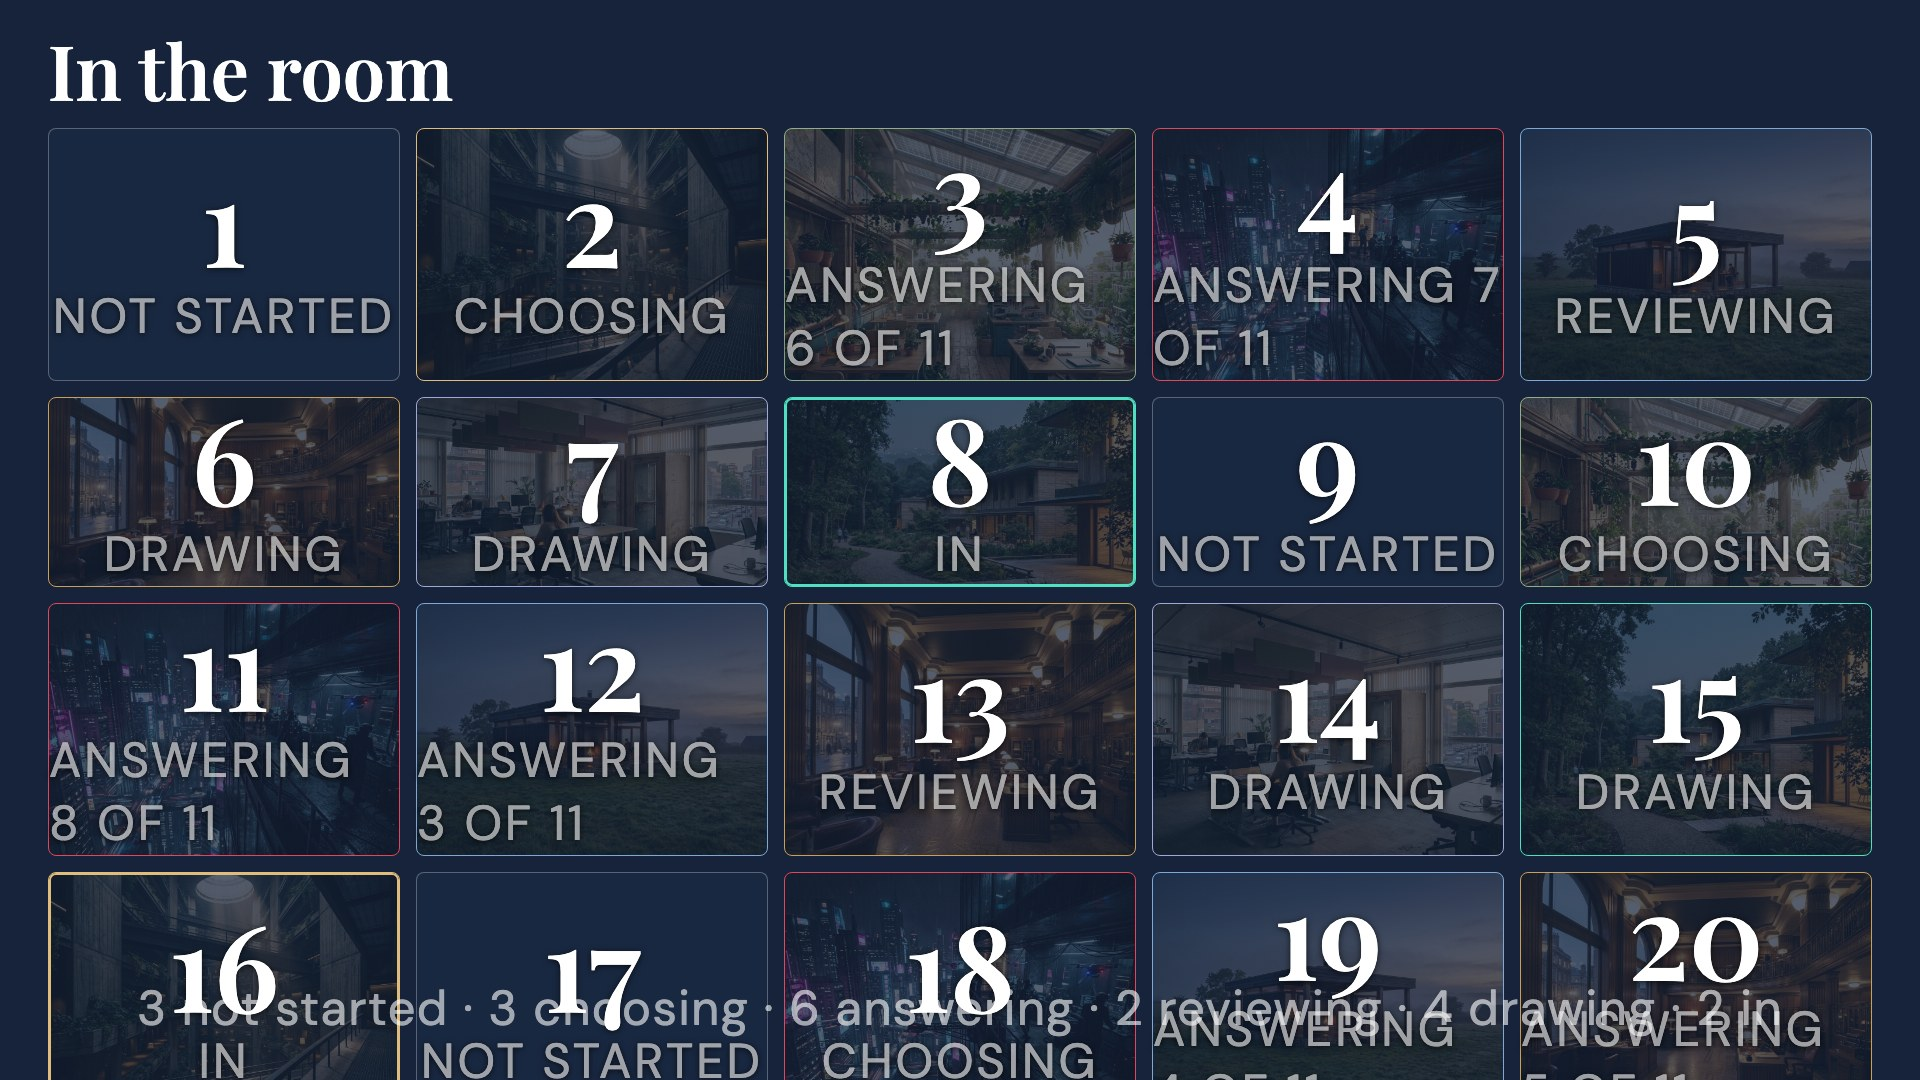
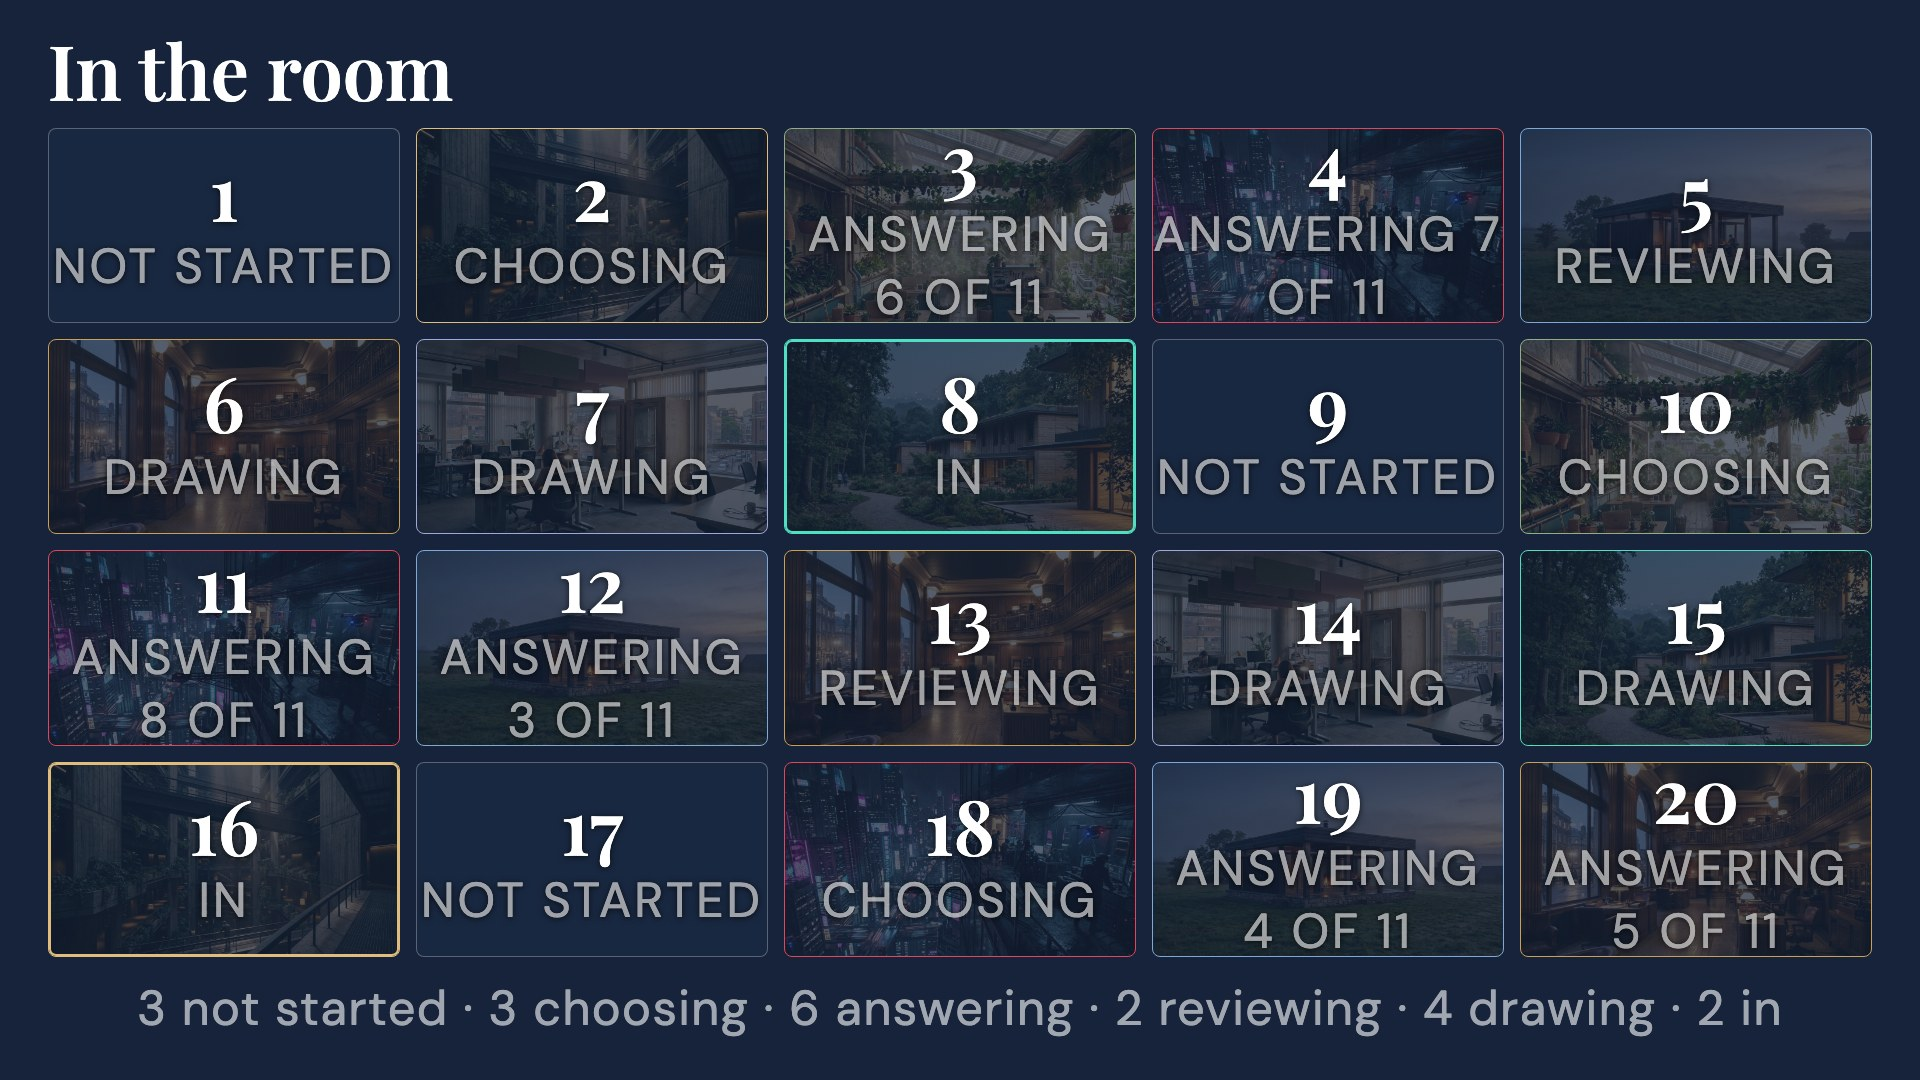
fix(projector): keep the progress grid inside the frame
At 1920x1080 the twenty-tile grid grew past the bottom of the screen:
the fourth row was cut off and the summary line printed over it.

A bare `1fr` track is `minmax(auto, 1fr)`, so a row will not shrink below
its own content. The cell's content had grown — an 11vh table number plus
a state caption that wrapped to two lines — and the content decided the
size instead of the frame. Both axes now take a zero minimum, the cell
clips, and the grid tile gets its own smaller number size: a twenty-tile
grid is not a hero tile, and 7vh is still 75px at 1080, well over the
48px floor.

The caption wraps rather than truncating. Clipping it to "answering ..."
fitted, but threw away the only number on the tile, which is the thing a
table looks for.

A capture assertion now checks, at both sizes, that the summary starts
below the grid and that the page does not scroll.

Claude-Session: https://claude.ai/code/session_013nLucFXCUYBvG6fEPKyxjF

Changed region(s): [[0.0, 0.1222, 1.0, 1.0], [0.1875, 0.8861, 0.2188, 0.9167]]

diff --git a/src/lib/ui/projector/Progress.svelte b/src/lib/ui/projector/Progress.svelte
@@ -77,21 +77,29 @@
 		margin: 0;
 		font-weight: 600;
 	}
+	/* `minmax(0, 1fr)`, not `1fr`. A bare `1fr` is `minmax(auto, 1fr)`, so a
+	   row refuses to shrink below its own content: with twenty tiles the
+	   grid grew past the frame, the fourth row was cut off and the summary
+	   line printed over it. Both axes take a zero minimum so the frame, not
+	   the content, decides the size. */
 	.grid {
 		flex: 1;
 		min-height: 0;
 		display: grid;
-		grid-template-columns: repeat(5, 1fr);
-		grid-template-rows: repeat(4, 1fr);
+		grid-template-columns: repeat(5, minmax(0, 1fr));
+		grid-template-rows: repeat(4, minmax(0, 1fr));
 		gap: 1rem;
 	}
 	/* Twenty tiles across a 5.3:1 wall: two rows of ten, so a tile stays
 	   close to 16:9 instead of becoming a tall sliver. */
 	.progress.wide .grid {
-		grid-template-columns: repeat(10, 1fr);
-		grid-template-rows: repeat(2, 1fr);
+		grid-template-columns: repeat(10, minmax(0, 1fr));
+		grid-template-rows: repeat(2, minmax(0, 1fr));
 	}
 	.cell {
+		min-width: 0;
+		min-height: 0;
+		overflow: hidden;
 		border: 1px solid var(--accent);
 		border-radius: 0.5rem;
 		background: var(--card-alpha);
@@ -110,16 +118,24 @@
 	}
 	.table-no {
 		font-family: 'Playfair Display', Georgia, serif;
-		font-size: var(--type-table-no);
+		font-size: var(--type-table-no-grid);
 		line-height: 1;
 	}
+	/* Wraps to a second line rather than truncating: "answering 6 of 11"
+	   clipped to "answering ..." throws away the only number on the tile,
+	   which is the thing a table looks for. Two lines fit now that the row
+	   is sized by the frame; `overflow: hidden` on the cell is the backstop
+	   if a longer label ever appears. */
 	.state {
 		font-size: var(--type-caption);
 		text-transform: uppercase;
 		letter-spacing: 0.06em;
 		color: var(--ink-muted);
+		text-align: center;
+		max-width: 100%;
 	}
 	.summary {
+		flex: 0 0 auto;
 		margin: 0;
 		text-align: center;
 		color: var(--ink-muted);

diff --git a/tests/e2e/projector-screens.spec.ts b/tests/e2e/projector-screens.spec.ts
@@ -70,6 +70,31 @@ test.describe('projector wall captures', () => {
 		await capture(page, '/projector?fixtures=1&beat=reveal&aspect=16x9', 'projector-reveal-5760x1080-forced-16x9');
 	});
 
+	test('nothing on the progress beat overlaps or leaves the frame', async ({ page }) => {
+		// Live at 1920x1080 the twenty-tile grid grew past the bottom of the
+		// screen: row four was cut off and the summary line printed over it.
+		// A bare `1fr` row will not shrink below its content, so the content
+		// decided the size instead of the frame.
+		for (const size of [WALL, TV]) {
+			await page.setViewportSize(size);
+			await page.goto('/projector?fixtures=1&beat=progress');
+			await page.waitForLoadState('networkidle');
+
+			const box = await page.evaluate(() => {
+				const grid = document.querySelector('.grid')!.getBoundingClientRect();
+				const summary = document.querySelector('.summary')!.getBoundingClientRect();
+				return { gridBottom: grid.bottom, summaryTop: summary.top, summaryBottom: summary.bottom };
+			});
+			// The summary starts at or below the grid, and the whole beat ends
+			// inside the frame.
+			expect(box.summaryTop).toBeGreaterThanOrEqual(box.gridBottom - 1);
+			expect(box.summaryBottom).toBeLessThanOrEqual(size.height);
+			// And the page itself never scrolls.
+			const overflow = await page.evaluate(() => document.documentElement.scrollHeight - window.innerHeight);
+			expect(overflow).toBeLessThanOrEqual(0);
+		}
+	});
+
 	test('a reveal tile is a picture, not a strip', async ({ page }) => {
 		// Live at 1920x1080 the old grid collapsed each tile's image to about
 		// 25px of the frame with empty navy beneath it. The paged layout sizes

diff --git a/src/routes/projector/+layout.svelte b/src/routes/projector/+layout.svelte
@@ -43,6 +43,12 @@
 		/* The table number is the loudest element: it is the only thing a
 		   delegate needs to find their own table's picture from 20 m. */
 		--type-table-no: 11vh;
+		/* The twenty-tile grid is not a hero tile: at 11vh a cell's number
+		   plus its two-line state caption is taller than a quarter of the
+		   frame, the row cannot shrink below its content, and the grid
+		   pushes past the bottom of the screen. Still 75px at 1080, well
+		   over the 48px floor. */
+		--type-table-no-grid: 7vh;
 
 		position: fixed;
 		inset: 0;
